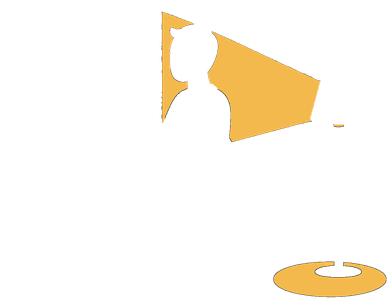
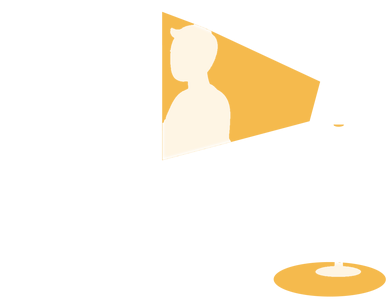
Reexporta as camadas de luz e as placas do Início com bordas suaves

diff --git a/web/src/assets/cenas/inicio/PROVENANCE.md b/web/src/assets/cenas/inicio/PROVENANCE.md
@@ -6,28 +6,28 @@ The composed green-key scenes of the old Início (heroi, faixa-cacau and tabela,
 
 | file | sha256 | bytes | WxH | source | script (name + sha256) | operation | date |
 |---|---|---|---|---|---|---|---|
-| m04-recorte-1200w.webp | 09abe79e2a049eddd3dac449e4f335c0781ddd11da5b9992ccc67d2ac5635140 | 25560 | 1200x870 | IMG_DEFECT/accept_20261119/out/04_tummy_espelho_v2.png sha256:d50e9125f03c45d1ad626a0be8c29efae178e370bf71448c0b21c0eb92e6e2f0 | recortar.py sha256 0dabcebe6a4e2c07ecfd3bdcffd4ae025a934db8cb4f5c4200fff0e659aef3bc | crop 0,30,1200,900 (1200x870), LANCZOS to 1200x870, encoder WebP q82 m6 | 2026-11-19 |
+| m04-recorte-1200w.webp | a09b6f4ddad06b9d79e1790f724227b641654852116b7760a79b63a03f8322d8 | 25486 | 1200x870 | IMG_DEFECT/accept_20261119/out/04_tummy_espelho_v2.png sha256:d50e9125f03c45d1ad626a0be8c29efae178e370bf71448c0b21c0eb92e6e2f0 | reexportar.py sha256 0300fe6b1009056bf216a2f88b42494c914244d869ce1a9dc4a63278b6a76476 | crop 0,30,1200,900 (1200x870), no resize; x 0-8 sand sliver below the window rows (y 670-869) repainted from column 9, x 0-70 window kept; ground snapped to its token (day_wall #F8F6EB, day_floor #EADDC5) and calibrated on the decoded output; encoder WebP q82 m6 | 2026-11-19 |
 | m04-recorte-350w.webp | 5330c84b11e9a71f939c2dab4c77e708ceb5bb82c339e44630a9d5a7fcb434de | 6622 | 350x254 | IMG_DEFECT/accept_20261119/out/04_tummy_espelho_v2.png sha256:d50e9125f03c45d1ad626a0be8c29efae178e370bf71448c0b21c0eb92e6e2f0 | recortar.py sha256 0dabcebe6a4e2c07ecfd3bdcffd4ae025a934db8cb4f5c4200fff0e659aef3bc | crop 0,30,1200,900 (1200x870), LANCZOS to 350x254, encoder WebP q82 m6 | 2026-11-19 |
 | m04-recorte-600w.webp | dddd45c0a91d570f735ea237d35bf1d6b866f898f1f1625d14c49fa5fef2df21 | 11730 | 600x435 | IMG_DEFECT/accept_20261119/out/04_tummy_espelho_v2.png sha256:d50e9125f03c45d1ad626a0be8c29efae178e370bf71448c0b21c0eb92e6e2f0 | recortar.py sha256 0dabcebe6a4e2c07ecfd3bdcffd4ae025a934db8cb4f5c4200fff0e659aef3bc | crop 0,30,1200,900 (1200x870), LANCZOS to 600x435, encoder WebP q82 m6 | 2026-11-19 |
 | m04-recorte-700w.webp | 2046c33f53617940bbdc46df7855dbfd6f1d68691367da0b88de96079b8b76e1 | 13792 | 700x508 | IMG_DEFECT/accept_20261119/out/04_tummy_espelho_v2.png sha256:d50e9125f03c45d1ad626a0be8c29efae178e370bf71448c0b21c0eb92e6e2f0 | recortar.py sha256 0dabcebe6a4e2c07ecfd3bdcffd4ae025a934db8cb4f5c4200fff0e659aef3bc | crop 0,30,1200,900 (1200x870), LANCZOS to 700x508, encoder WebP q82 m6 | 2026-11-19 |
-| m05-luz-390c-390w.png | d61b4a48b5121e24dacc232096ade633865fc5c1bdc1d22be8659c5b90f7b15f | 5232 | 390x306 | IMG_DEFECT/out/v5/M05_luz_lampada.png sha256:962250fd9183bd9d62952e5ef19afe6d6deffad148151f858cc4e4889bee3ae1 (RGBA lamp layer; base IMG_DEFECT/out/v5/M05_base_sol.png sha256:b3867008a76b9858f7c72aeeed8925be0af4fbc08586084ca4b7b43c4f9e0258) | recortar.py sha256 0dabcebe6a4e2c07ecfd3bdcffd4ae025a934db8cb4f5c4200fff0e659aef3bc | crop 473,0,1672,941 (1199x941); colour snap (night floor #645A57->#6E6560 on M05 only), layer = RGBA lamp layer from IMG_DEFECT v5, premultiplied LANCZOS to 390x306, encoder png_paleta (256 colours) | 2026-11-19 |
-| m05-luz-900w.png | 3e3bf733a9aaf3276e64a07bc9573da0553acea8dcdd68230f6c4aa976e4afaf | 9047 | 900x507 | IMG_DEFECT/out/v5/M05_luz_lampada.png sha256:962250fd9183bd9d62952e5ef19afe6d6deffad148151f858cc4e4889bee3ae1 (RGBA lamp layer; base IMG_DEFECT/out/v5/M05_base_sol.png sha256:b3867008a76b9858f7c72aeeed8925be0af4fbc08586084ca4b7b43c4f9e0258) | recortar.py sha256 0dabcebe6a4e2c07ecfd3bdcffd4ae025a934db8cb4f5c4200fff0e659aef3bc | crop 0,0,1672,941 (1672x941); colour snap (night floor #645A57->#6E6560 on M05 only), layer = RGBA lamp layer from IMG_DEFECT v5, premultiplied LANCZOS to 900x507, encoder png_paleta (256 colours) | 2026-11-19 |
-| m05-sol-1672w.webp | a3827846c9e4e8d8ea98bdded10fbb787afbd98c005dfe5748942e490de02c37 | 32558 | 1672x941 | IMG_DEFECT/out/v5/M05_base_sol.png sha256:b3867008a76b9858f7c72aeeed8925be0af4fbc08586084ca4b7b43c4f9e0258 (served from the colour-snapped copy sha256:3bb79201ba2e289a67e0fd931ec8919fac11722879c72a77df08909701dfec5e) | recortar.py sha256 0dabcebe6a4e2c07ecfd3bdcffd4ae025a934db8cb4f5c4200fff0e659aef3bc | crop 0,0,1672,941 (1672x941), LANCZOS to 1672x941, encoder WebP q82 m6, night-floor colour snap #645A57->#6E6560 | 2026-11-19 |
+| m05-luz-390c-390w.png | 86e171c503058471c8014d7daa83358a8f1c3991c205bd2d899f502de8074fe1 | 5724 | 390x306 | IMG_DEFECT/out/v5/M05_luz_lampada.png sha256:962250fd9183bd9d62952e5ef19afe6d6deffad148151f858cc4e4889bee3ae1 (shape and figure holes; base IMG_DEFECT/out/v5/M05_base_sol.png sha256:b3867008a76b9858f7c72aeeed8925be0af4fbc08586084ca4b7b43c4f9e0258) | reexportar.py sha256 0300fe6b1009056bf216a2f88b42494c914244d869ce1a9dc4a63278b6a76476 | crop 473,0,1672,941 (1199x941); cone edges and pool ellipse fitted at sub-pixel precision, rasterized with 8x8 supersampled coverage in flat honey #F5BA4D, light dilated 2 px under each figure outline with Gaussian-feathered alpha plus 15% honey tint over the figure pixels inside the cone, alpha-only LANCZOS to 390x306 (colour is flat, so premultiplied), encoder PNG palette (flat honey, tRNS alpha ramp, 252 alpha levels in the file, per-row PNG filters) | 2026-11-19 |
+| m05-luz-900w.png | 39bd4c05afbfcf562331ca2f5387c905b3246a764f94f175ccaa40a2eeb6a851 | 9497 | 900x507 | IMG_DEFECT/out/v5/M05_luz_lampada.png sha256:962250fd9183bd9d62952e5ef19afe6d6deffad148151f858cc4e4889bee3ae1 (shape and figure holes; base IMG_DEFECT/out/v5/M05_base_sol.png sha256:b3867008a76b9858f7c72aeeed8925be0af4fbc08586084ca4b7b43c4f9e0258) | reexportar.py sha256 0300fe6b1009056bf216a2f88b42494c914244d869ce1a9dc4a63278b6a76476 | crop 0,0,1672,941 (1672x941); cone edges and pool ellipse fitted at sub-pixel precision, rasterized with 8x8 supersampled coverage in flat honey #F5BA4D, light dilated 2 px under each figure outline with Gaussian-feathered alpha plus 15% honey tint over the figure pixels inside the cone, alpha-only LANCZOS to 900x507 (colour is flat, so premultiplied), encoder PNG palette (flat honey, tRNS alpha ramp, 251 alpha levels in the file, per-row PNG filters) | 2026-11-19 |
+| m05-sol-1672w.webp | 0064240ca917e3fda6afebde71d7c59dbd7fae8cd5839e17ae60a2ef73859a65 | 37676 | 1672x941 | IMG_DEFECT/out/v5/M05_base_sol.png sha256:b3867008a76b9858f7c72aeeed8925be0af4fbc08586084ca4b7b43c4f9e0258 | reexportar.py sha256 0300fe6b1009056bf216a2f88b42494c914244d869ce1a9dc4a63278b6a76476 | crop 0,0,1672,941 (1672x941), no resize; ground snapped to its token (day_wall #F8F6EB, night_wall #2B2320, day_floor #EADDC5, night_floor #6E6560) and calibrated on the decoded output; encoder WebP q86 m6; night floor old #645A57 snapped to #6E6560 | 2026-11-19 |
 | m05-sol-390c-390w.webp | 80e5877b7ed09928dc2169b01ee92bd4def9158adb48551ccaca546aae71fa20 | 8166 | 390x306 | IMG_DEFECT/out/v5/M05_base_sol.png sha256:b3867008a76b9858f7c72aeeed8925be0af4fbc08586084ca4b7b43c4f9e0258 (served from the colour-snapped copy sha256:3bb79201ba2e289a67e0fd931ec8919fac11722879c72a77df08909701dfec5e) | recortar.py sha256 0dabcebe6a4e2c07ecfd3bdcffd4ae025a934db8cb4f5c4200fff0e659aef3bc | crop 473,0,1672,941 (1199x941), LANCZOS to 390x306, encoder WebP q82 m6, night-floor colour snap #645A57->#6E6560 | 2026-11-19 |
-| m05-sol-390c-780w.webp | 9492db67e5cb6709e1df49bb64d050780231eb7e54f4cd5d25804e30fc8a6ff0 | 17974 | 780x612 | IMG_DEFECT/out/v5/M05_base_sol.png sha256:b3867008a76b9858f7c72aeeed8925be0af4fbc08586084ca4b7b43c4f9e0258 (served from the colour-snapped copy sha256:3bb79201ba2e289a67e0fd931ec8919fac11722879c72a77df08909701dfec5e) | recortar.py sha256 0dabcebe6a4e2c07ecfd3bdcffd4ae025a934db8cb4f5c4200fff0e659aef3bc | crop 473,0,1672,941 (1199x941), LANCZOS to 780x612, encoder WebP q82 m6, night-floor colour snap #645A57->#6E6560 | 2026-11-19 |
+| m05-sol-390c-780w.webp | 7291170726b37abd1050c7a602659e22776e26dbccd83c39dcd0ce1166c0d23a | 23062 | 780x612 | IMG_DEFECT/out/v5/M05_base_sol.png sha256:b3867008a76b9858f7c72aeeed8925be0af4fbc08586084ca4b7b43c4f9e0258 | reexportar.py sha256 0300fe6b1009056bf216a2f88b42494c914244d869ce1a9dc4a63278b6a76476 | crop 473,0,1672,941 (1199x941), LANCZOS to 780x612; ground snapped to its token (day_wall #F8F6EB, night_wall #2B2320, day_floor #EADDC5, night_floor #6E6560) and calibrated on the decoded output; encoder WebP q88 m6; night floor old #645A57 snapped to #6E6560 | 2026-11-19 |
 | m05-sol-900w.webp | 9c157f1a86a98732c5973b077d3a1ece45bc59d53af0ffcbecd618ed00c3faed | 16404 | 900x507 | IMG_DEFECT/out/v5/M05_base_sol.png sha256:b3867008a76b9858f7c72aeeed8925be0af4fbc08586084ca4b7b43c4f9e0258 (served from the colour-snapped copy sha256:3bb79201ba2e289a67e0fd931ec8919fac11722879c72a77df08909701dfec5e) | recortar.py sha256 0dabcebe6a4e2c07ecfd3bdcffd4ae025a934db8cb4f5c4200fff0e659aef3bc | crop 0,0,1672,941 (1672x941), LANCZOS to 900x507, encoder WebP q82 m6, night-floor colour snap #645A57->#6E6560 | 2026-11-19 |
 | m06-apagada-300w.webp | d5a2b0ab00f8a73e49da6868da2e0d26f8a624ed0010a27851cc96cc0c8d44f8 | 5646 | 300x490 | IMG_DEFECT/out/v5/M06_base_apagada.png sha256:cec1c8bcb515a3379517fb613ece9f93d429845ac0700f3ecd1c49277b57b2f2 | recortar.py sha256 0dabcebe6a4e2c07ecfd3bdcffd4ae025a934db8cb4f5c4200fff0e659aef3bc | crop 0,0,981,1602 (981x1602), LANCZOS to 300x490, encoder WebP q82 m6 | 2026-11-19 |
 | m06-apagada-396w.webp | 2c45f9f6348479cb96a102cc97a927c6582d429dd9f8604fadf017f31b9428bb | 7710 | 396x647 | IMG_DEFECT/out/v5/M06_base_apagada.png sha256:cec1c8bcb515a3379517fb613ece9f93d429845ac0700f3ecd1c49277b57b2f2 | recortar.py sha256 0dabcebe6a4e2c07ecfd3bdcffd4ae025a934db8cb4f5c4200fff0e659aef3bc | crop 0,0,981,1602 (981x1602), LANCZOS to 396x647, encoder WebP q82 m6 | 2026-11-19 |
 | m06-apagada-600w.webp | c1e39270fb1d0bd99331edb0a0dad39a2b7016e87886cc52b9749fdc979ea4a2 | 12528 | 600x980 | IMG_DEFECT/out/v5/M06_base_apagada.png sha256:cec1c8bcb515a3379517fb613ece9f93d429845ac0700f3ecd1c49277b57b2f2 | recortar.py sha256 0dabcebe6a4e2c07ecfd3bdcffd4ae025a934db8cb4f5c4200fff0e659aef3bc | crop 0,0,981,1602 (981x1602), LANCZOS to 600x980, encoder WebP q82 m6 | 2026-11-19 |
-| m06-apagada-792w.webp | b483b4c41236d4f0f3bbf9c5f0ebd5aaa9953cc09f31778e8adc05c614c3c2df | 16828 | 792x1293 | IMG_DEFECT/out/v5/M06_base_apagada.png sha256:cec1c8bcb515a3379517fb613ece9f93d429845ac0700f3ecd1c49277b57b2f2 | recortar.py sha256 0dabcebe6a4e2c07ecfd3bdcffd4ae025a934db8cb4f5c4200fff0e659aef3bc | crop 0,0,981,1602 (981x1602), LANCZOS to 792x1293, encoder WebP q82 m6 | 2026-11-19 |
-| m06-luz-300w.png | bebaaa20f03f2807cc6a53894b568472adac502231a094c0eca7f6a6442e93bf | 10667 | 300x490 | IMG_DEFECT/out/v5/M06_luz_lampada.png sha256:11888e527629b421eb7ab36fdee72706ec1f3c44234d19c9d6cd659e75789ad3 (RGBA lamp layer; base IMG_DEFECT/out/v5/M06_base_apagada.png sha256:cec1c8bcb515a3379517fb613ece9f93d429845ac0700f3ecd1c49277b57b2f2) | recortar.py sha256 0dabcebe6a4e2c07ecfd3bdcffd4ae025a934db8cb4f5c4200fff0e659aef3bc | crop 0,0,981,1602 (981x1602); colour snap (night floor #645A57->#6E6560 on M05 only), layer = RGBA lamp layer from IMG_DEFECT v5, premultiplied LANCZOS to 300x490, encoder png_paleta (64 colours) | 2026-11-19 |
-| m06-luz-396w.png | c2d255b98a9714ca05dcd1fe84da8d246538c00d871c08e41fe037286fd8237f | 11918 | 396x647 | IMG_DEFECT/out/v5/M06_luz_lampada.png sha256:11888e527629b421eb7ab36fdee72706ec1f3c44234d19c9d6cd659e75789ad3 (RGBA lamp layer; base IMG_DEFECT/out/v5/M06_base_apagada.png sha256:cec1c8bcb515a3379517fb613ece9f93d429845ac0700f3ecd1c49277b57b2f2) | recortar.py sha256 0dabcebe6a4e2c07ecfd3bdcffd4ae025a934db8cb4f5c4200fff0e659aef3bc | crop 0,0,981,1602 (981x1602); colour snap (night floor #645A57->#6E6560 on M05 only), layer = RGBA lamp layer from IMG_DEFECT v5, premultiplied LANCZOS to 396x647, encoder png_paleta (6 colours) | 2026-11-19 |
+| m06-apagada-792w.webp | 6bb0fef040b32af94ab43199c116a0f9206bf6682a258339b459fada20113c17 | 27512 | 792x1293 | IMG_DEFECT/out/v5/M06_base_apagada.png sha256:cec1c8bcb515a3379517fb613ece9f93d429845ac0700f3ecd1c49277b57b2f2 | reexportar.py sha256 0300fe6b1009056bf216a2f88b42494c914244d869ce1a9dc4a63278b6a76476 | crop 0,0,981,1602 (981x1602), LANCZOS to 792x1293; ground snapped to its token (night_wall #2B2320, night_floor #6E6560) and calibrated on the decoded output; encoder WebP q92 m6 | 2026-11-19 |
+| m06-luz-300w.png | 7e46bf43a73d07b37acaa9918f339545114aa2b9e6b2d356c52f324527c48d49 | 11195 | 300x490 | IMG_DEFECT/out/v5/M06_luz_lampada.png sha256:11888e527629b421eb7ab36fdee72706ec1f3c44234d19c9d6cd659e75789ad3 (shape and figure holes; base IMG_DEFECT/out/v5/M06_base_apagada.png sha256:cec1c8bcb515a3379517fb613ece9f93d429845ac0700f3ecd1c49277b57b2f2) | reexportar.py sha256 0300fe6b1009056bf216a2f88b42494c914244d869ce1a9dc4a63278b6a76476 | crop 0,0,981,1602 (981x1602); cone edges and pool ellipse fitted at sub-pixel precision, rasterized with 8x8 supersampled coverage in flat honey #F5BE46, light dilated 2 px under each figure outline with Gaussian-feathered alpha plus 15% honey tint over the figure pixels inside the cone, alpha-only LANCZOS to 300x490 (colour is flat, so premultiplied), encoder PNG palette (flat honey, tRNS alpha ramp, 252 alpha levels in the file, per-row PNG filters) | 2026-11-19 |
+| m06-luz-396w.png | ff0030d11f6ffcf7f1aee37fdc4ad36d3bed325979ebcf9f176df7785a31b372 | 11791 | 396x647 | IMG_DEFECT/out/v5/M06_luz_lampada.png sha256:11888e527629b421eb7ab36fdee72706ec1f3c44234d19c9d6cd659e75789ad3 (shape and figure holes; base IMG_DEFECT/out/v5/M06_base_apagada.png sha256:cec1c8bcb515a3379517fb613ece9f93d429845ac0700f3ecd1c49277b57b2f2) | reexportar.py sha256 0300fe6b1009056bf216a2f88b42494c914244d869ce1a9dc4a63278b6a76476 | crop 0,0,981,1602 (981x1602); cone edges and pool ellipse fitted at sub-pixel precision, rasterized with 8x8 supersampled coverage in flat honey #F5BE46, light dilated 2 px under each figure outline with Gaussian-feathered alpha plus 15% honey tint over the figure pixels inside the cone, alpha-only LANCZOS to 396x647 (colour is flat, so premultiplied), encoder PNG palette (flat honey, tRNS alpha ramp, 96 alpha levels in the file, per-row PNG filters) | 2026-11-19 |
 
 Not served (over the 12,000 B lamp-layer cap):
 
-- `m05-luz-1672w.png`: 19032 bytes
-- `m05-luz-390c-780w.png`: 12363 bytes
-- `m06-luz-600w.png`: 16312 bytes
-- `m06-luz-792w.png`: 24307 bytes
+- `m05-luz-1672w.png`: 11250 bytes
+- `m05-luz-390c-780w.png`: 11111 bytes
+- `m06-luz-600w.png`: 17226 bytes
+- `m06-luz-792w.png`: 23631 bytes
 
 IMG-SWAP (2026-11-19): re-cut from the accepted defect-pass plates; sources and acceptance: IMG_DEFECT/out/PROVENANCE.md (plates 1-2, layers, crops.json) and IMG_DEFECT/accept_20261119/PROVENANCE.md (acceptance, plate 4 fix run).
